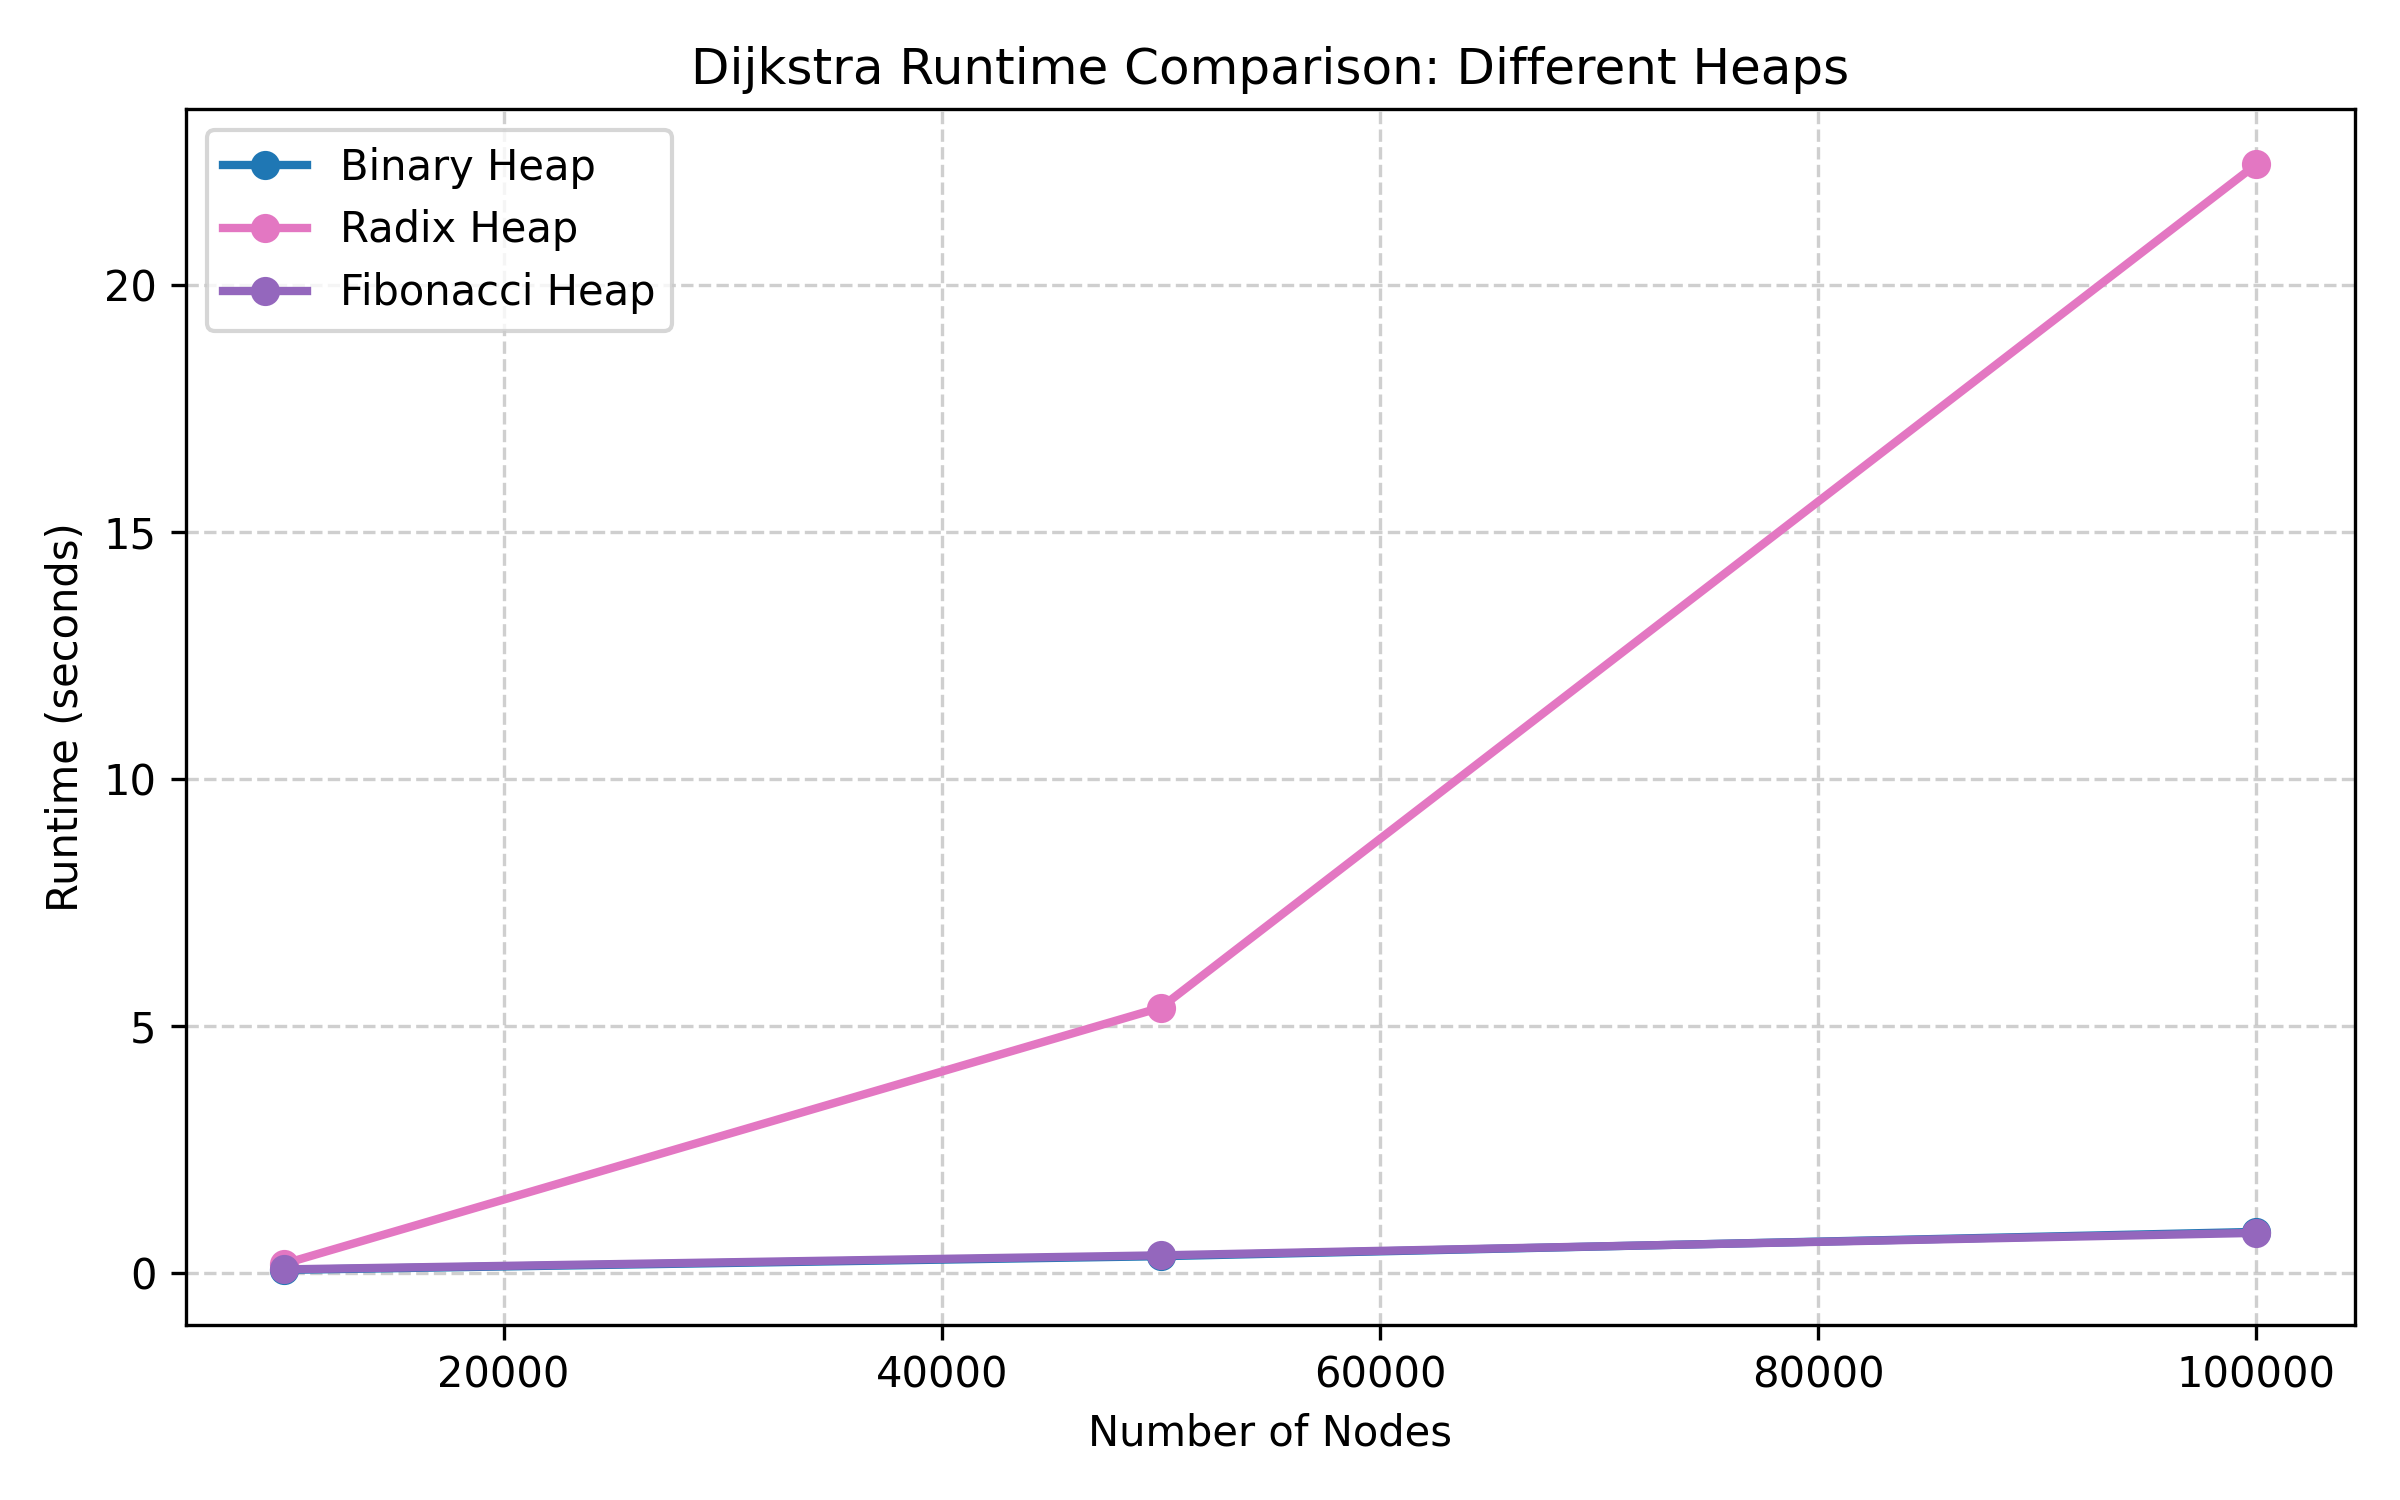
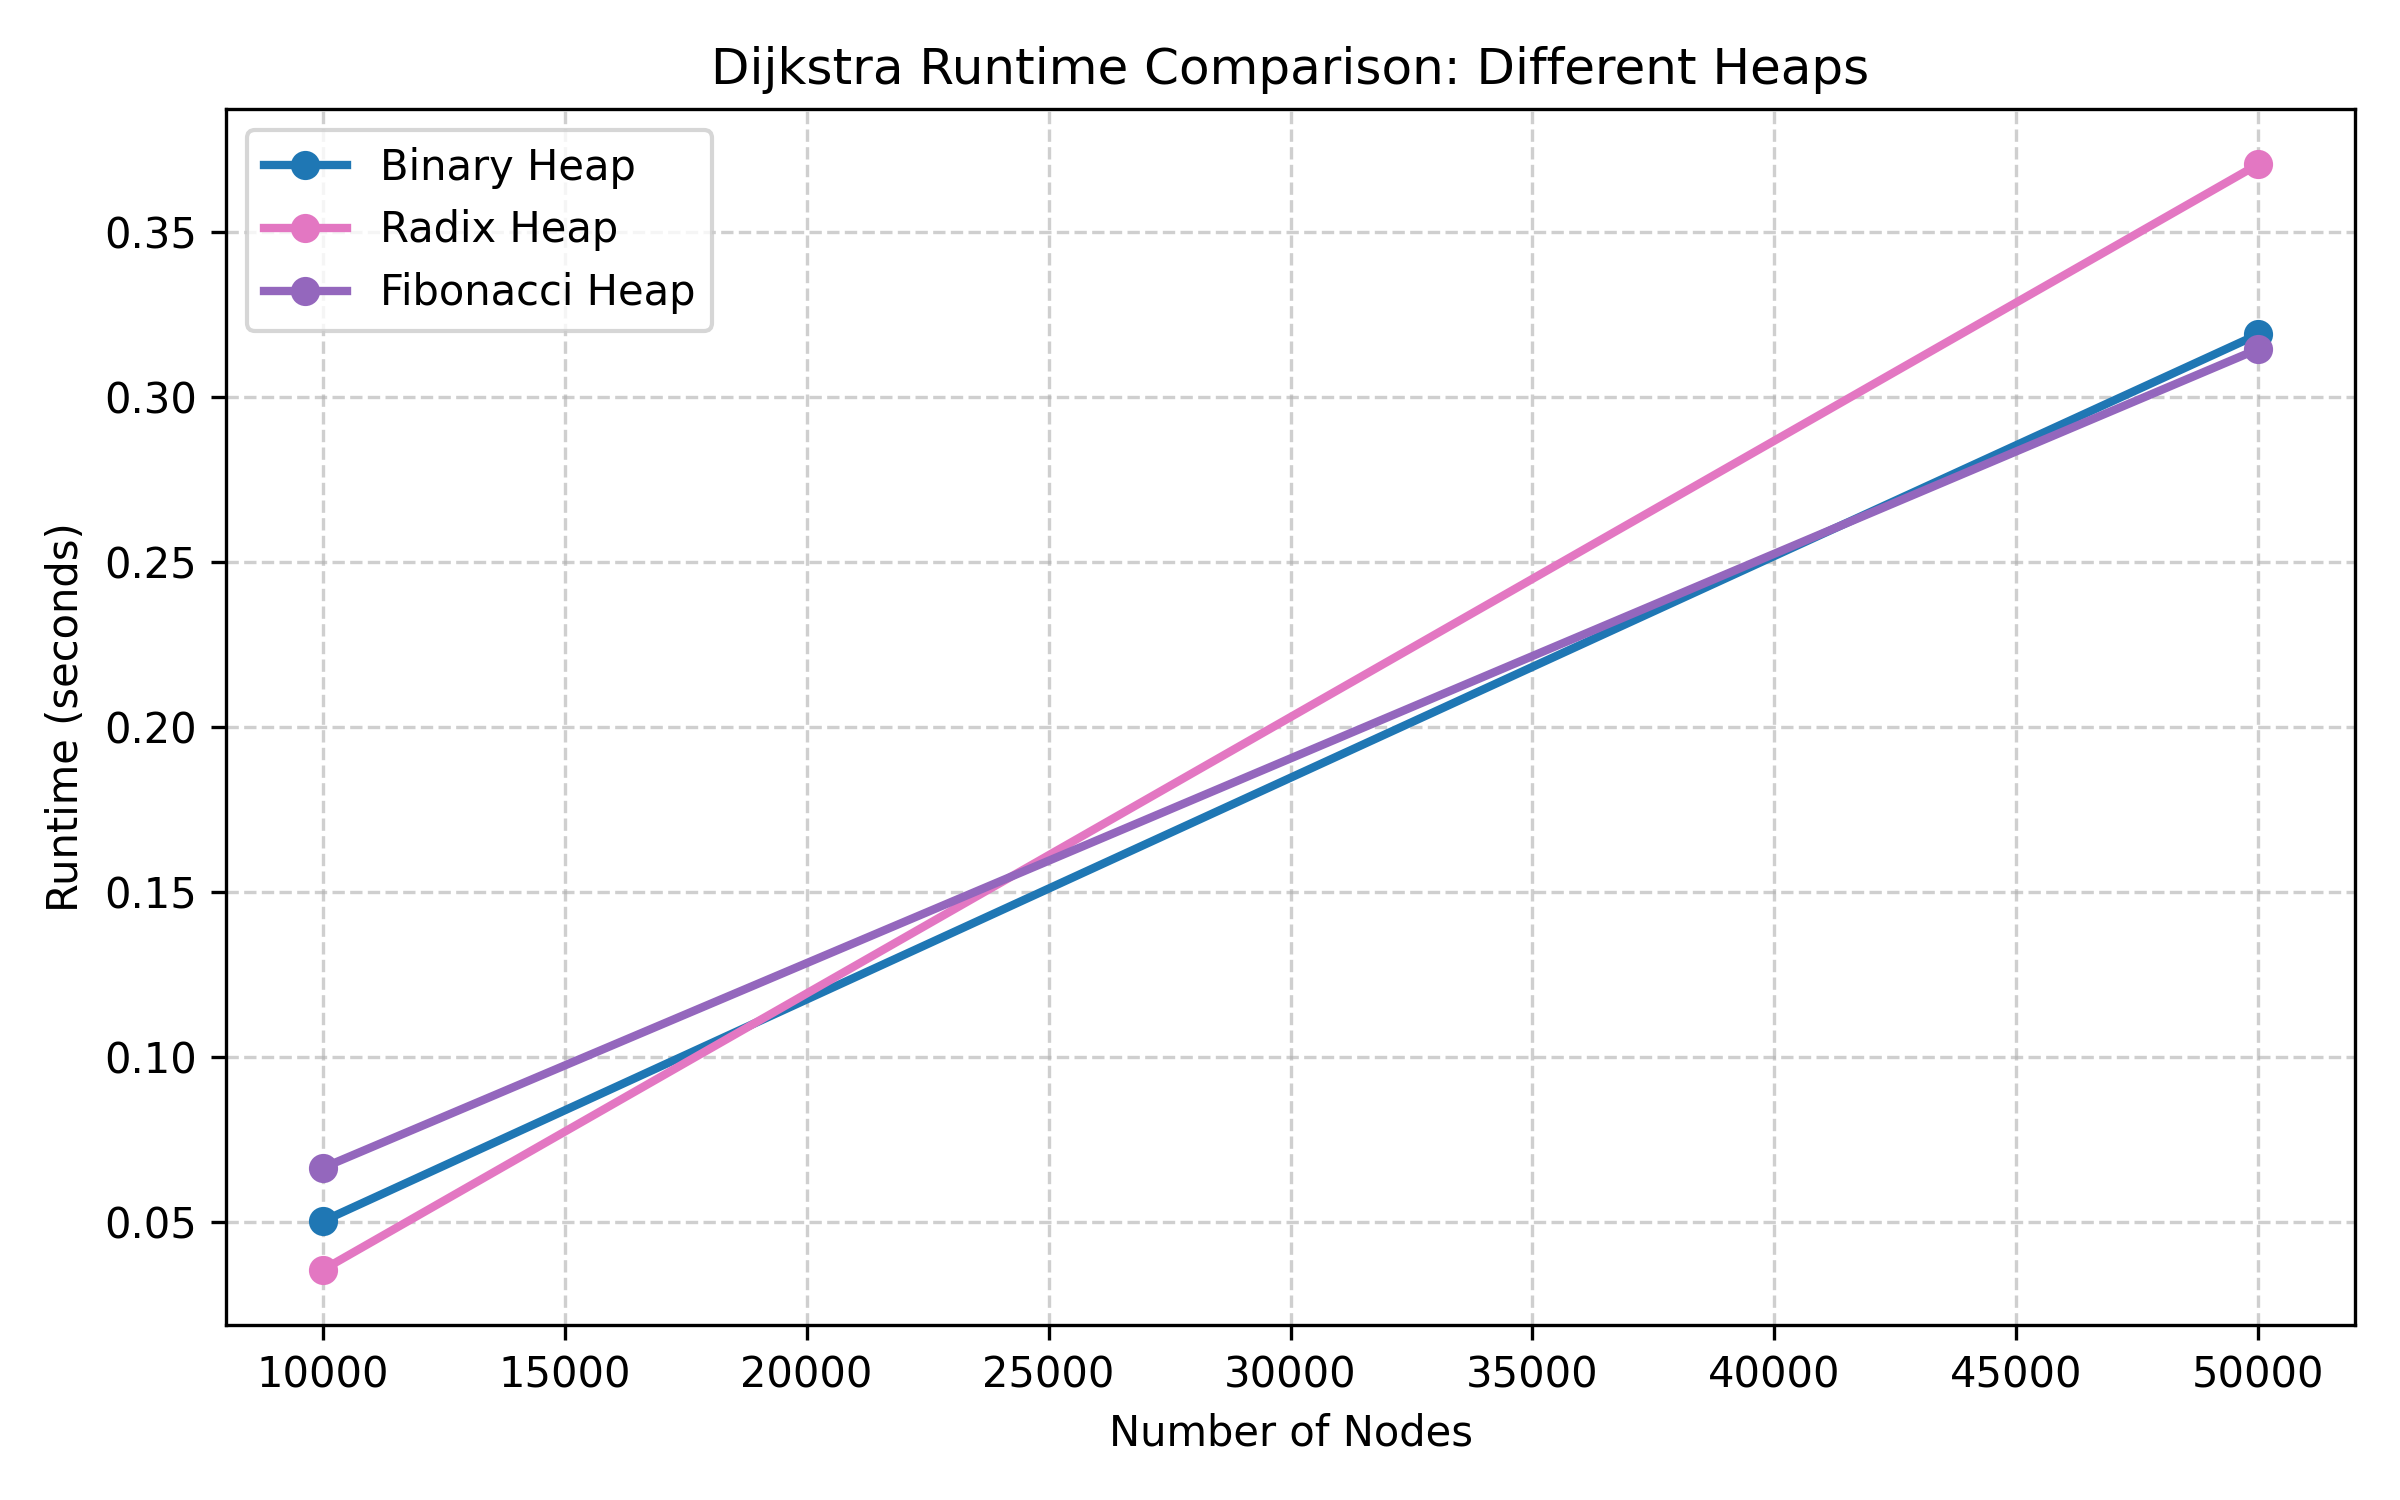
Refactor: optimize radix heap and standardize Dijkstra heap interface
- Updated RadixHeap implementation to improve practical runtime:
  - Refined bucket boundary recomputation and redistribution logic
  - Reduced overhead from stale entries and ensured monotone key handling
- Simplified Dijkstra’s heap usage by relying on a common priority queue API
  (insert, extract_min, decrease_key, is_empty, __len__) instead of heap-specific
  type checks
- Ensured RadixHeap integrates cleanly with Dijkstra and matches Binary/Fibonacci
  heap behavior under unit tests
- Re-ran runtime_analysis to verify performance; radix heap now performs
  comparably to binary and Fibonacci heaps on large random graphs

diff --git a/src/data_structures/radix_heap.py b/src/data_structures/radix_heap.py
@@ -19,11 +19,12 @@ import math
 
 
 class RadixHeap:
-
     def __init__(self, max_key: int):
         self._last_extracted = 0
         self._size = 0
-        self._node_map: Dict[Any, Tuple[int, int]] = {}  # node → (priority, bucket_index)
+
+        # node -> (priority, bucket_index)
+        self._node_map: Dict[Any, Tuple[int, int]] = {}
 
         # number of buckets (standard: floor(log2(max)) + 2)
         self._B = math.floor(math.log2(max_key)) + 2 if max_key > 0 else 2
@@ -52,42 +53,50 @@ class RadixHeap:
         if self._size == 0:
             return None, None
 
-        # ensure bucket 0 has something valid
+        # ensure bucket 0 has candidates
         if not self._buckets[0]:
             self._refill_bucket_0()
 
-        # now bucket 0 must contain reachable elements
-        min_node = None
-        min_prio = None
-
-        for (node, prio) in self._buckets[0]:
+        # bucket 0 contains keys == current minimal key;
+        # just pop until we find a live entry
+        while self._buckets[0]:
+            node, prio = self._buckets[0].pop()
             cur_prio, _ = self._node_map.get(node, (None, None))
             if cur_prio == prio:
-                if min_prio is None or prio < min_prio:
-                    min_prio = prio
-                    min_node = node
+                # this is the current best entry for this node
+                del self._node_map[node]
+                self._size -= 1
 
-        if min_node is None:
-            # all were stale; clear and try again
-            self._buckets[0].clear()
-            return self.extract_min()
+                # NOTE: we do NOT recompute bounds here.
+                # Bounds only change when we refill from a higher bucket.
+                self._last_extracted = prio
+                return node, prio
 
-        # remove winner
-        del self._node_map[min_node]
-        self._size -= 1
+        # If we drained bucket 0 but only saw stale entries,
+        # try refilling again (rare, but possible with many lazy decreases).
+        if self._size == 0:
+            return None, None
 
-        # update monotonic boundary
-        self._last_extracted = min_prio
-        self._recompute_bounds()
+        # After refill, try once more; if it still fails, something is wrong.
+        self._refill_bucket_0()
+        while self._buckets[0]:
+            node, prio = self._buckets[0].pop()
+            cur_prio, _ = self._node_map.get(node, (None, None))
+            if cur_prio == prio:
+                del self._node_map[node]
+                self._size -= 1
+                self._last_extracted = prio
+                return node, prio
 
-        return min_node, min_prio
+        # Should not reach here if invariants hold.
+        raise RuntimeError("RadixHeap: no valid minimum found despite size > 0")
 
     # DECREASE KEY
     def decrease_key(self, node: Any, new_priority: int) -> None:
         if node not in self._node_map:
             raise KeyError(f"Node {node!r} not found in heap.")
 
-        old_priority, old_bucket = self._node_map[node]
+        old_priority, _ = self._node_map[node]
 
         if new_priority >= old_priority:
             return
@@ -109,14 +118,19 @@ class RadixHeap:
     # LEN
     def __len__(self) -> int:
         return self._size
-
-    # INTERNAL UTILITIES 
     
-    def _recompute_bounds(self):
+    # CONTAINS
+    def __contains__(self, node: Any) -> bool:
+        return node in self._node_map
+
+    # INTERNAL UTILITIES
+
+    def _recompute_bounds(self) -> None:
         """Recompute bucket boundaries based on last_extracted."""
-        self._u[0] = self._last_extracted
+        base = self._last_extracted
+        self._u[0] = base
         for i in range(1, self._B):
-            self._u[i] = self._last_extracted + (1 << (i - 1)) 
+            self._u[i] = base + (1 << (i - 1))
 
     def _bucket_index(self, prio: int) -> int:
         # find smallest b such that prio < u[b+1]
@@ -127,24 +141,34 @@ class RadixHeap:
 
     def _refill_bucket_0(self) -> None:
         """Move next valid min element(s) down to bucket 0."""
-
         # find next nonempty bucket
         i = 1
         while i < self._B and not self._buckets[i]:
             i += 1
 
         if i == self._B:
+            # no buckets have elements, so heap should be empty
+            if self._size == 0:
+                return
             raise RuntimeError(
                 "RadixHeap: internal error, no buckets have elements but size>0"
             )
 
-        # find minimum priority in bucket i
         items = self._buckets[i]
-        min_prio = min(
-            prio
-            for node, prio in items
-            if self._node_map.get(node, (None, None))[0] == prio
-        )
+
+        # find minimum priority in bucket i among live entries
+        min_prio = None
+        for node, prio in items:
+            cur_prio, _ = self._node_map.get(node, (None, None))
+            if cur_prio == prio:
+                if min_prio is None or prio < min_prio:
+                    min_prio = prio
+
+        if min_prio is None:
+            # bucket i had only stale entries; clear and try again
+            self._buckets[i] = []
+            self._refill_bucket_0()
+            return
 
         # update last_extracted and bounds
         self._last_extracted = min_prio
@@ -152,13 +176,10 @@ class RadixHeap:
 
         # redistribute bucket i
         self._buckets[i] = []
-        for (node, prio) in items:
+        for node, prio in items:
             cur_prio, _ = self._node_map.get(node, (None, None))
             if cur_prio != prio:
                 continue
             b = self._bucket_index(prio)
             self._buckets[b].append((node, prio))
             self._node_map[node] = (prio, b)
-
-        # NO RECURSION. If bucket 0 still empty, something else will fill it
-        # on the next extract_min call. No infinite loop.

diff --git a/src/algorithms/dijkstra.py b/src/algorithms/dijkstra.py
@@ -25,29 +25,31 @@ from src.data_structures.fibonacci_heap import FibonacciHeap
 from src.data_structures.radix_heap import RadixHeap
 
 
-def dijkstra(graph, source, heap_type="binary"):
-    # Initialize heap based on type
+def dijkstra(graph, source, heap_type: str = "binary"):
+    # --- choose heap implementation ---
     if heap_type == "binary":
         heap = BinaryHeap()
     elif heap_type == "fibonacci":
         heap = FibonacciHeap()
     elif heap_type == "radix":
-        max_edge = 0
-        for u in graph:
-            for _, w in graph[u]:
-                max_edge += w  # sum upper bound
-        if max_edge == 0:
-            max_edge = 1
-
-        heap = RadixHeap(max_key=max_edge)
+        # use an upper bound on distances: max_weight * (num_nodes - 1)
+        max_w = 0
+        for u, nbrs in graph.items():
+            for _, w in nbrs:
+                if w > max_w:
+                    max_w = w
+        if max_w == 0:
+            max_w = 1
+        max_key = max_w * max(len(graph) - 1, 1)
+        heap = RadixHeap(max_key=max_key)
     else:
-        raise ValueError("heap_type must be one of {'binary', 'pairing', 'fibonacci'}")
+        raise ValueError("heap_type must be one of {'binary', 'radix', 'fibonacci'}")
 
-    # Initialize distances
+    # --- initialize distances ---
     dist = {v: math.inf for v in graph}
     dist[source] = 0
 
-    # Insert source
+    # push source
     heap.insert(source, 0)
 
     while not heap.is_empty():
@@ -55,20 +57,15 @@ def dijkstra(graph, source, heap_type="binary"):
         if u is None:
             continue
         if d > dist[u]:
-            continue  # Skip outdated entries
+            continue  # stale entry
 
         for v, w in graph.get(u, []):
             alt = dist[u] + w
             if alt < dist[v]:
                 dist[v] = alt
 
-                # Check if node already exists in heap for decrease-key
-                if (hasattr(heap, "nodes") and v in heap.nodes
-                ) or (
-                    hasattr(heap, "_pos") and v in heap._pos
-                ) or (
-                    isinstance(heap, RadixHeap) and v in heap._node_map
-                ):
+                #Unified membership check via __contains__
+                if v in heap:
                     heap.decrease_key(v, alt)
                 else:
                     heap.insert(v, alt)

diff --git a/src/data_structures/fibonacci_heap.py b/src/data_structures/fibonacci_heap.py
@@ -96,6 +96,10 @@ class FibonacciHeap:
     # LEN
     def __len__(self) -> int:
         return self.count
+    
+    # CONTAINS
+    def __contains__(self, node: Any) -> bool:
+        return node in self.nodes
 
     # INTERNAL UTILITIES
     def _merge_with_root_list(self, node: FibNode) -> None:

diff --git a/src/data_structures/binary_heap.py b/src/data_structures/binary_heap.py
@@ -76,6 +76,10 @@ class BinaryHeap:
     # LEN
     def __len__(self) -> int:
         return len(self._heap)
+    
+    # CONTAINS
+    def __contains__(self, node: Any) -> bool:
+        return node in self._pos
 
     # INTERNAL UTILITIES
     def _parent(self, i: int) -> int:

diff --git a/src/utils/runtime_analysis.py b/src/utils/runtime_analysis.py
@@ -33,7 +33,7 @@ def benchmark_dijkstra():
     graph_sizes = [
         (10_000, 8),
         (50_000, 10),
-        (100_000, 12),
+        #(100_000, 12),
         #(500_000, 15),
         #(1_000_000, 20),
         #(2_000_000, 25),
